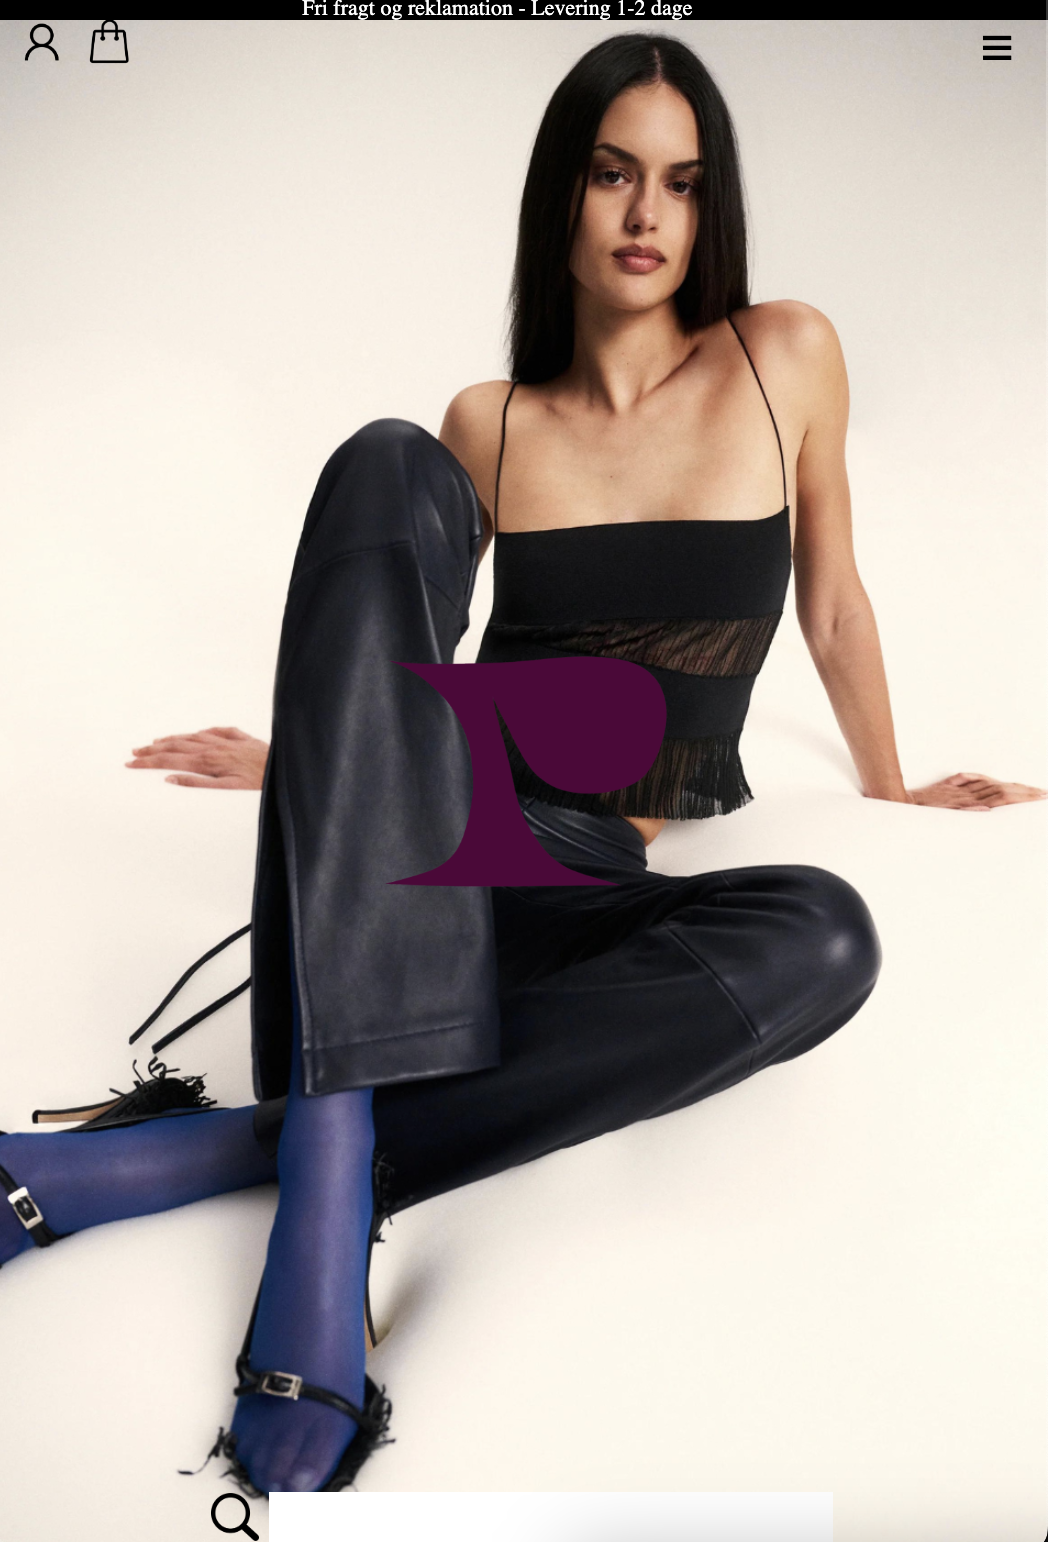
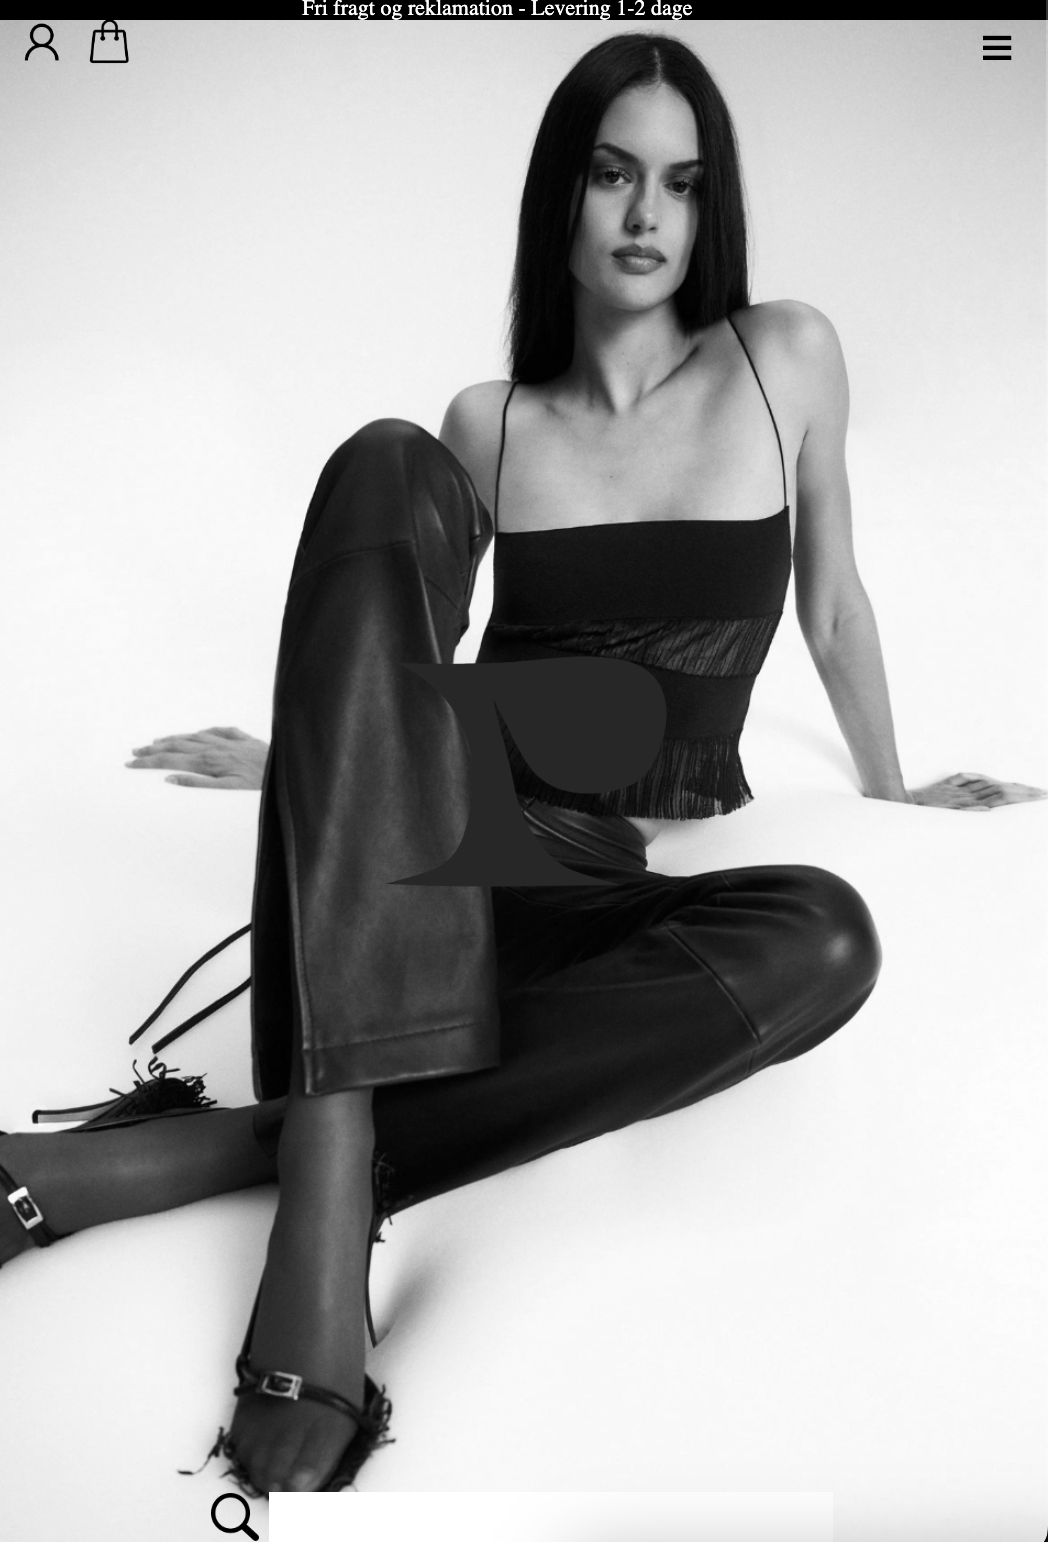
billede ændring på landing page

diff --git a/src/pages/home.js b/src/pages/home.js
@@ -31,8 +31,8 @@ export function renderHome(rootSelector = "#app") {
 
       <!-- højre kolonne: to billeder + overlay-knap -->
       <div class="showcase">
-        <img src="assets/images/zbhomepage.png" alt="projekt eksempel 1" />
-        <img src="assets/images/pitayahomepage.png" alt="projekt eksempel 2" />
+        <img src="assets/images/pitayahomepage.png" alt="projekt eksempel 1" />
+        <img src="assets/images/zbhomepage.png" alt="projekt eksempel 2" />
         <a class="btn btn-cta" href="projects.html">udforsk mine projekter</a>
       </div>
     </section>

diff --git a/assets/styles/style.scss b/assets/styles/style.scss
@@ -221,7 +221,7 @@ body.no-scroll{ overflow:hidden; }
   height:clamp(var(--img-min-h), var(--img-resp-h), var(--img-max-h));
   object-fit: contain;
   border-radius:0;
-  opacity:.7;
+  opacity:.5;
 }
 
 /* generiske side-containere */

diff --git a/assets/styles/style.css b/assets/styles/style.css
@@ -407,7 +407,7 @@ body.no-scroll {
   -o-object-fit: contain;
      object-fit: contain;
   border-radius: 0;
-  opacity: 0.7;
+  opacity: 0.5;
 }
 
 /* generiske side-containere */
